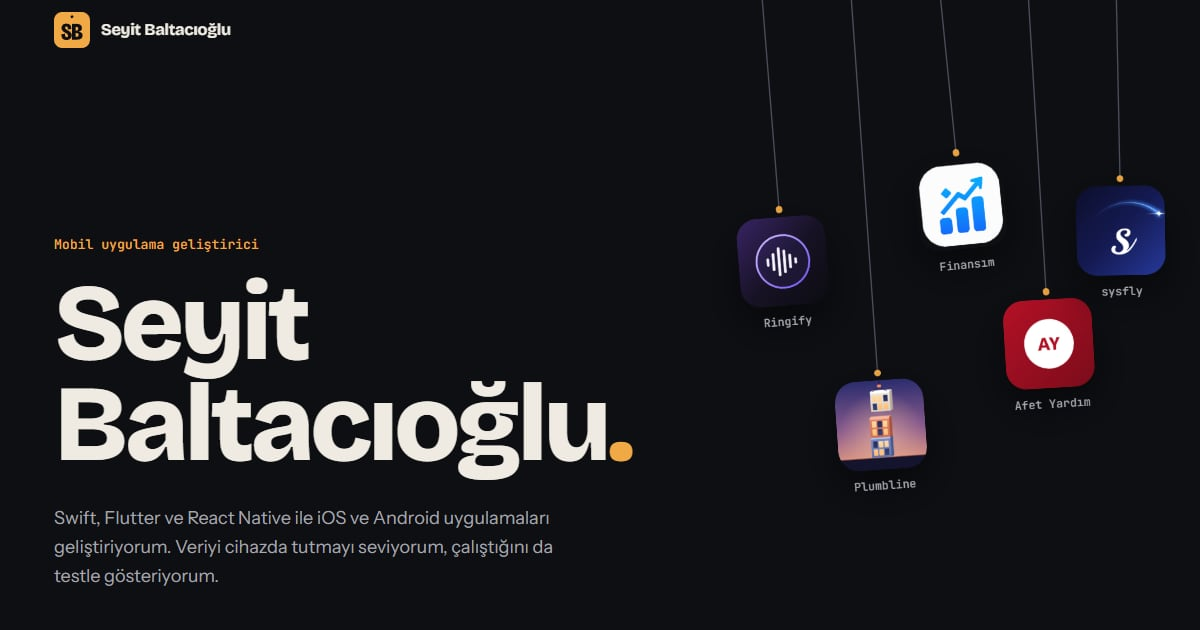
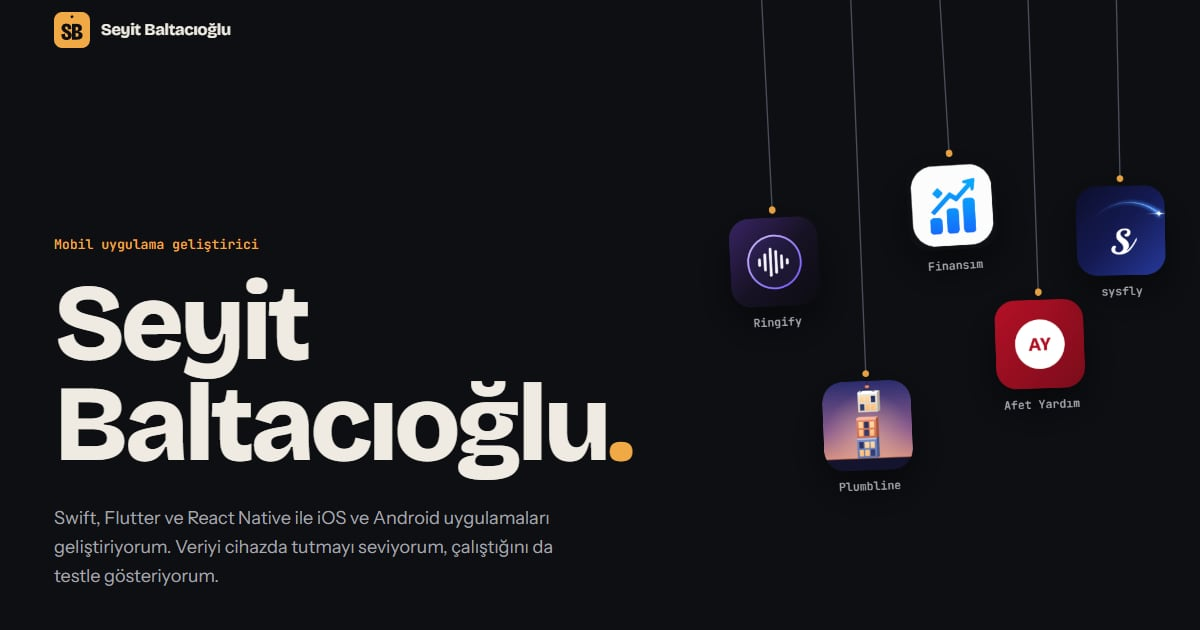
fix: asılı ikonlar yalnızca sayfa açılırken hafifçe sallanıyor
Üzerine gelme, dokunma, klavye odağı ve kaydırmayla gelen sallanma kaldırıldı. İkonlar sayfa açılırken birkaç derece eğik başlayıp yaklaşık altı saniyede duruluyor; başlangıç eğimleri küçültüldü, sönümleme artırıldı.

diff --git a/src/components/HangingMobile.jsx b/src/components/HangingMobile.jsx
@@ -3,26 +3,25 @@ import { useEffect, useRef } from 'react'
 const BASE = import.meta.env.BASE_URL
 
 const ITEMS = [
-  { id: 'ringify', label: 'Ringify', x: 14, len: 36, lenSm: 38, start: -0.08 },
-  { id: 'plumbline', label: 'Plumbline', x: 32.5, len: 62, lenSm: 72, start: -0.07 },
-  { id: 'finansim', label: 'Finansım', x: 51, len: 27, lenSm: 26, start: -0.1 },
-  { id: 'afet', label: 'Afet Yardım', x: 69.5, len: 49, lenSm: 56, start: -0.06 },
+  { id: 'ringify', label: 'Ringify', x: 14, len: 36, lenSm: 38, start: -0.05 },
+  { id: 'plumbline', label: 'Plumbline', x: 32.5, len: 62, lenSm: 72, start: -0.04 },
+  { id: 'finansim', label: 'Finansım', x: 51, len: 27, lenSm: 26, start: -0.06 },
+  { id: 'afet', label: 'Afet Yardım', x: 69.5, len: 49, lenSm: 56, start: -0.035 },
   { id: 'sysfly', label: 'sysfly', x: 88, len: 31, lenSm: 30, start: -0.02 },
 ]
 
 const GRAVITY = 1500
-const DAMPING = 0.32
+const DAMPING = 0.9
 
-// her ikon kucuk bir sarkac, kaydirma ve dokunma ile sallaniyor
+// her ikon kucuk bir sarkac: sayfa acilirken hafif egik baslar, birkac saniyede durulur
 export default function HangingMobile() {
   const nodes = useRef([])
-  const state = useRef(ITEMS.map((item) => ({ angle: item.start, speed: 0 })))
-  const frame = useRef(0)
-  const wake = useRef(() => {})
 
   useEffect(() => {
     if (window.matchMedia('(prefers-reduced-motion: reduce)').matches) return undefined
 
+    const state = ITEMS.map((item) => ({ angle: item.start, speed: 0 }))
+    let frame = 0
     let last = 0
     let visible = true
 
@@ -31,7 +30,7 @@ export default function HangingMobile() {
       last = now
       let moving = false
 
-      state.current.forEach((pendulum, i) => {
+      state.forEach((pendulum, i) => {
         const node = nodes.current[i]
         if (!node) return
         const length = Math.max(node.offsetHeight, 80)
@@ -41,49 +40,29 @@ export default function HangingMobile() {
         if (Math.abs(pendulum.angle) > 0.0015 || Math.abs(pendulum.speed) > 0.0015) moving = true
       })
 
-      frame.current = moving && visible ? requestAnimationFrame(tick) : 0
+      frame = moving && visible ? requestAnimationFrame(tick) : 0
     }
 
-    wake.current = () => {
-      if (frame.current || !visible) return
+    const start = () => {
+      if (frame || !visible) return
       last = performance.now()
-      frame.current = requestAnimationFrame(tick)
+      frame = requestAnimationFrame(tick)
     }
 
-    let lastScroll = window.scrollY
-    const onScroll = () => {
-      const delta = window.scrollY - lastScroll
-      lastScroll = window.scrollY
-      state.current.forEach((pendulum, i) => {
-        const push = delta * 0.0012 * (i % 2 ? -1 : 1)
-        pendulum.speed = Math.max(-0.7, Math.min(0.7, pendulum.speed + push))
-      })
-      wake.current()
-    }
-
+    // ekrandan cikinca durur, geri gelince kaldigi yerden devam eder
     const root = nodes.current[0]?.parentElement
     const observer = new IntersectionObserver(([entry]) => {
       visible = entry.isIntersecting
-      if (visible) wake.current()
+      if (visible) start()
     })
     if (root) observer.observe(root)
-
-    window.addEventListener('scroll', onScroll, { passive: true })
-    wake.current()
+    start()
 
     return () => {
-      window.removeEventListener('scroll', onScroll)
       observer.disconnect()
-      cancelAnimationFrame(frame.current)
-      frame.current = 0
+      cancelAnimationFrame(frame)
     }
   }, [])
-
-  const nudge = (i, amount) => {
-    const pendulum = state.current[i]
-    pendulum.speed = Math.max(-1.4, Math.min(1.4, pendulum.speed + amount))
-    wake.current()
-  }
 
   return (
     <div className="mobile" aria-label="Projeler">
@@ -100,14 +79,7 @@ export default function HangingMobile() {
             transform: `rotate(${item.start}rad)`,
           }}
         >
-          <a
-            className="mobile__item"
-            href={`#${item.id}`}
-            aria-label={`${item.label} projesine git`}
-            onPointerMove={(e) => nudge(i, e.movementX * 0.006)}
-            onPointerDown={() => nudge(i, i % 2 ? -0.7 : 0.7)}
-            onFocus={() => nudge(i, 0.35)}
-          >
+          <a className="mobile__item" href={`#${item.id}`} aria-label={`${item.label} projesine git`}>
             <img src={`${BASE}img/icons/${item.id}.png`} alt="" width="128" height="128" draggable="false" />
             <span>{item.label}</span>
           </a>
